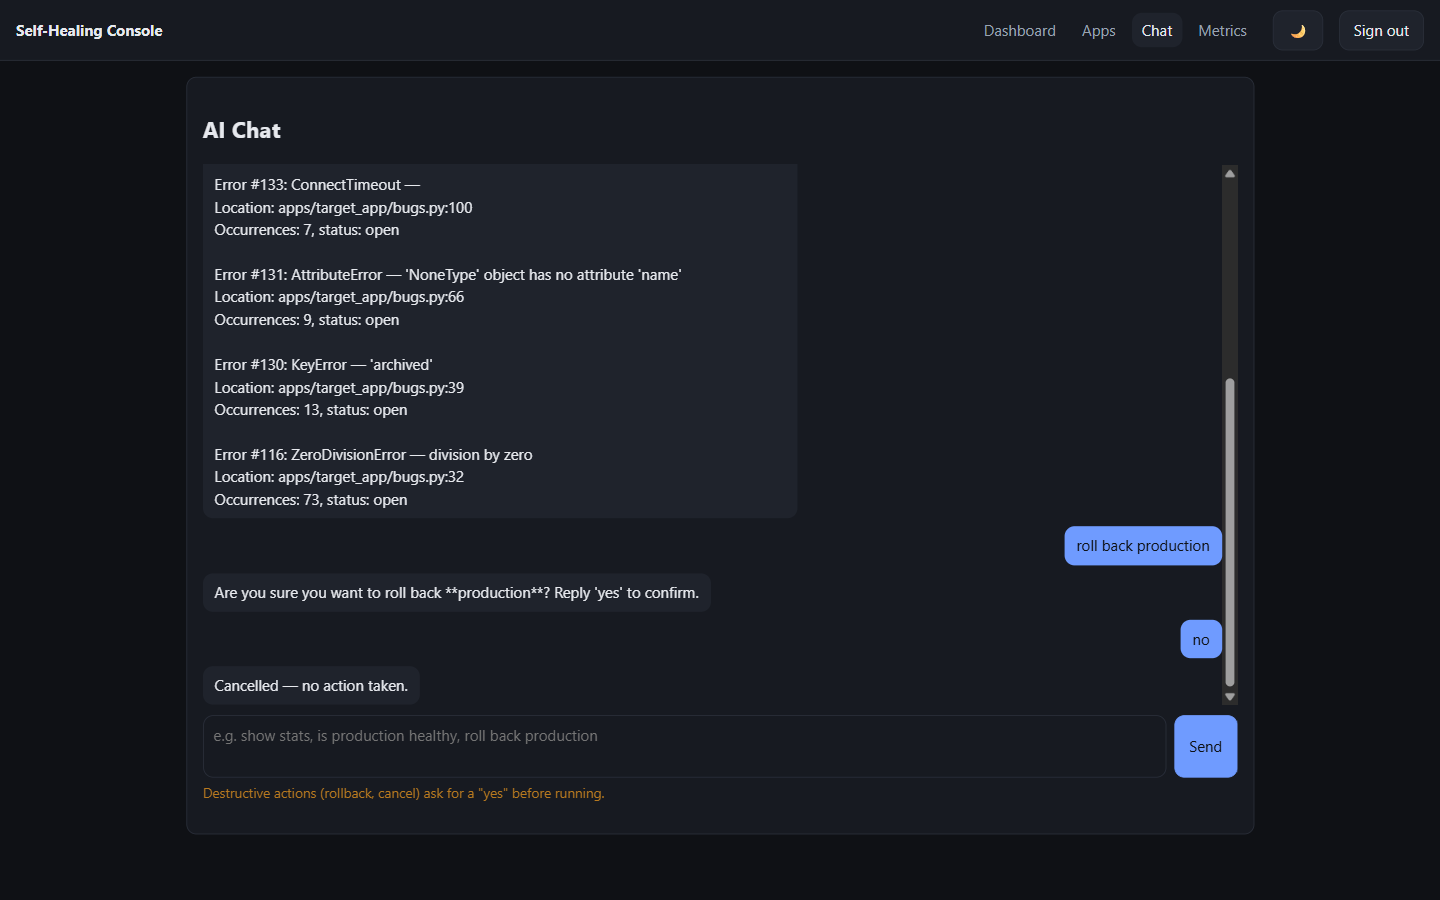
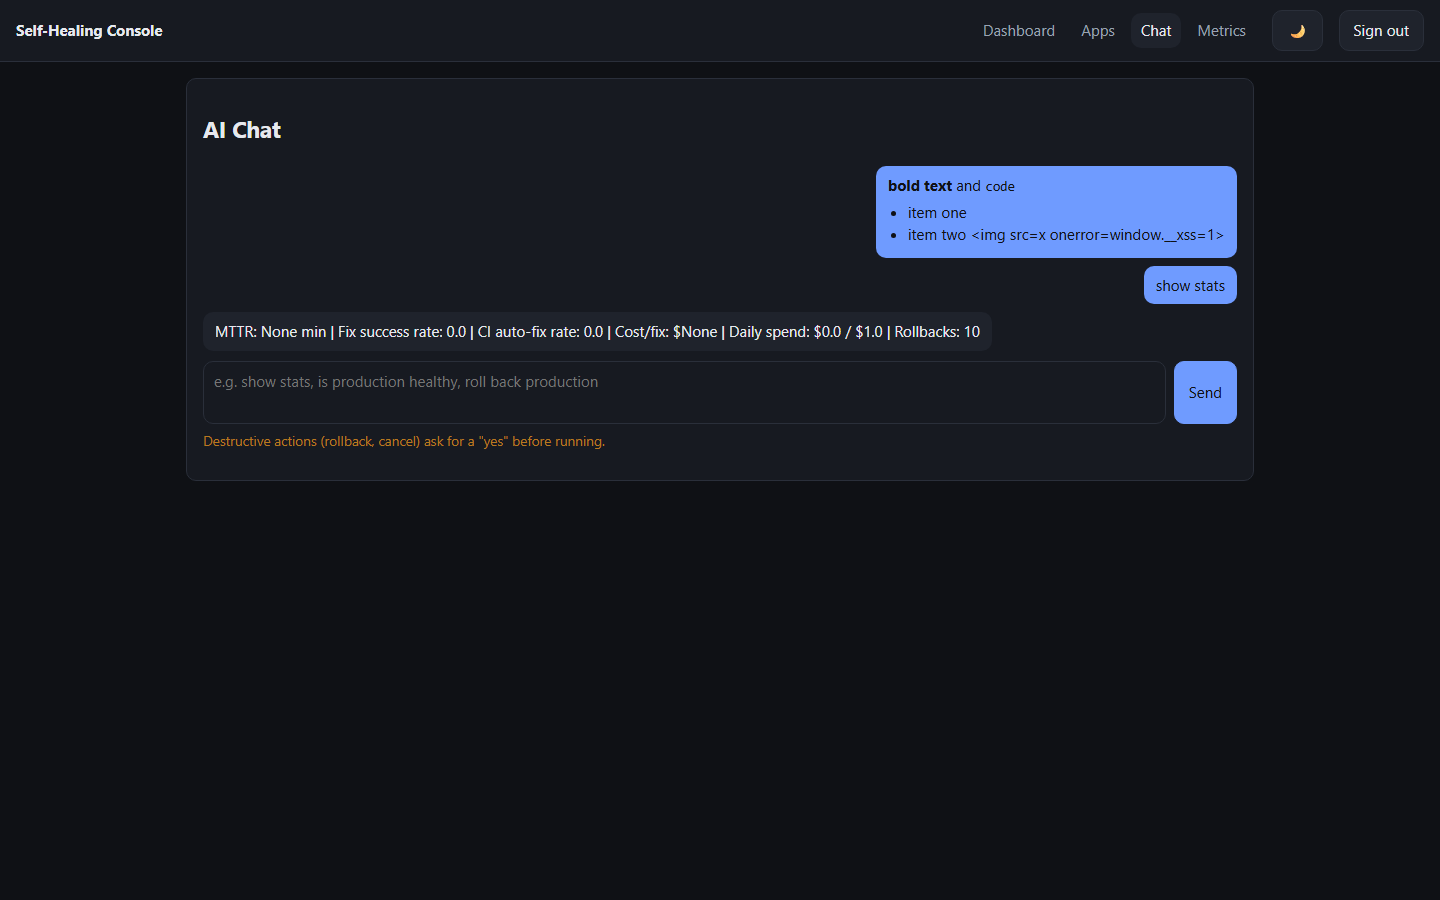
Bug-fix pass: chat markdown, MCP auto-reconnect, demo script fixes, test-row cleanup

diff --git a/web/app.js b/web/app.js
@@ -469,6 +469,49 @@ function AppDetail({ appId, socket, onBack, pushToast }) {
   `;
 }
 
+// Tiny safe markdown renderer: escapes ALL html first, then applies a few
+// patterns (code blocks, inline code, bold, italic, lists), so model/user
+// text can never inject markup.
+function escapeHtml(t) {
+  return String(t).replace(/&/g, "&amp;").replace(/</g, "&lt;").replace(/>/g, "&gt;").replace(/"/g, "&quot;").replace(/'/g, "&#39;");
+}
+function renderMarkdown(src) {
+  const blocks = [];
+  const text = escapeHtml(src).replace(/```[a-z]*\n?([\s\S]*?)```/g, (_, code) => {
+    blocks.push(`<pre><code>${code.replace(/\n$/, "")}</code></pre>`);
+    return `\u0000${blocks.length - 1}\u0000`;
+  });
+  const inline = (t) =>
+    t
+      .replace(/`([^`\n]+)`/g, "<code>$1</code>")
+      .replace(/\*\*([^*\n]+)\*\*/g, "<strong>$1</strong>")
+      .replace(/(^|[^*])\*([^*\n]+)\*/g, "$1<em>$2</em>");
+  const out = [];
+  let list = null;
+  const flush = () => {
+    if (list) {
+      out.push(`<${list.tag}>${list.items.join("")}</${list.tag}>`);
+      list = null;
+    }
+  };
+  for (const line of text.split("\n")) {
+    const m = line.match(/^\s*(?:([-*])|(\d+)\.)\s+(.*)$/);
+    if (m) {
+      const tag = m[1] ? "ul" : "ol";
+      if (!list || list.tag !== tag) {
+        flush();
+        list = { tag, items: [] };
+      }
+      list.items.push(`<li>${inline(m[3])}</li>`);
+    } else {
+      flush();
+      out.push(line.trim() === "" ? "<br/>" : `<div>${inline(line)}</div>`);
+    }
+  }
+  flush();
+  return out.join("").replace(/\u0000(\d+)\u0000/g, (_, i) => blocks[Number(i)]);
+}
+
 function Chat({ socket, pushToast }) {
   const [sessionId, setSessionId] = useState(null);
   const [messages, setMessages] = useState([]);
@@ -510,7 +553,7 @@ function Chat({ socket, pushToast }) {
       ${error && html`<div class="error-state">${error}</div>`}
       <div class="chat-log" ref=${logRef} aria-live="polite">
         ${messages.length === 0 && html`<div class="empty-state">Ask about errors, the pipeline, deployments, or say "show stats".</div>`}
-        ${messages.map((m, i) => html`<div class=${`chat-msg ${m.role}`} key=${i}>${m.content}</div>`)}
+        ${messages.map((m, i) => html`<div class=${`chat-msg ${m.role}`} key=${i} dangerouslySetInnerHTML=${{ __html: renderMarkdown(m.content) }} />`)}
       </div>
       <form class="chat-input-row" onSubmit=${send}>
         <textarea

diff --git a/web/style.css b/web/style.css
@@ -137,7 +137,7 @@ th { color: var(--text-dim); font-weight: 600; }
 .badge.warn { background: rgba(183,121,31,0.15); color: var(--warn); }
 
 .chat-log { display: flex; flex-direction: column; gap: 8px; max-height: 60vh; overflow-y: auto; }
-.chat-msg { padding: 8px 12px; border-radius: var(--radius); max-width: 80%; white-space: pre-wrap; }
+.chat-msg { padding: 8px 12px; border-radius: var(--radius); max-width: 80%; overflow-wrap: anywhere; }
 .chat-msg.user { align-self: flex-end; background: var(--accent); color: var(--accent-contrast); }
 .chat-msg.assistant { align-self: flex-start; background: var(--surface-2); }
 .chat-input-row { display: flex; gap: 8px; margin-top: 10px; }
@@ -209,3 +209,6 @@ th { color: var(--text-dim); font-weight: 600; }
   main { padding: 10px; }
   .chat-msg { max-width: 92%; }
 }
+.chat-msg pre { margin: 6px 0; padding: 8px; overflow-x: auto; background: var(--surface); border-radius: 6px; }
+.chat-msg code { font-family: ui-monospace, Consolas, monospace; font-size: 0.9em; }
+.chat-msg ul, .chat-msg ol { margin: 4px 0; padding-left: 20px; }

diff --git a/healer/mcp_client.py b/healer/mcp_client.py
@@ -12,9 +12,10 @@ uses for target_app/sentinel via `httpx.ASGITransport`.
 
 from __future__ import annotations
 
-from collections.abc import AsyncIterator
-from contextlib import asynccontextmanager
-from typing import Any
+import asyncio
+from collections.abc import AsyncIterator, Awaitable, Callable
+from contextlib import AbstractAsyncContextManager, asynccontextmanager
+from typing import Any, cast
 
 from mcp.client._memory import InMemoryTransport
 from mcp.client.session import ClientSession
@@ -33,8 +34,8 @@ def _content_text(result: Any) -> str:
 class MCPToolClient:
     """A connected `ClientSession` plus a JSON-friendly `call_tool`/list API."""
 
-    def __init__(self, session: ClientSession) -> None:
-        self._session = session
+    def __init__(self, session: ClientSession | None = None) -> None:
+        self._session = cast("ClientSession", session)  # subclasses override every call
 
     async def list_tool_schemas(self) -> list[dict[str, Any]]:
         """Anthropic-`tools`-shaped schemas: `{name, description, input_schema}`."""
@@ -76,3 +77,108 @@ async def connect_http(url: str) -> AsyncIterator[MCPToolClient]:
         async with ClientSession(read, write) as session:
             await session.initialize()
             yield MCPToolClient(session)
+
+
+class ReconnectingMCPToolClient(MCPToolClient):
+    """`MCPToolClient` that transparently re-establishes its connection.
+
+    healer-pod holds one long-lived connection to mcp-pod; if mcp-pod restarts
+    that connection is dead for good, so every chat/dashboard call would fail
+    until healer itself restarted. A dedicated background task owns the
+    connection (anyio cancel scopes must be entered and exited in the *same*
+    task, so request handlers can't be the ones to tear it down): it connects,
+    waits until a caller flags the connection dead, then reconnects with
+    exponential backoff. Callers retry on any transport-level failure, but
+    never on `MCPToolError` (a healthy server reporting a tool error).
+    """
+
+    def __init__(
+        self,
+        connect: Callable[[], AbstractAsyncContextManager[MCPToolClient]],
+        *,
+        attempts: int = 6,
+        base_delay_s: float = 0.5,
+        max_delay_s: float = 5.0,
+        call_timeout_s: float = 30.0,
+        ready_timeout_s: float = 10.0,
+    ) -> None:
+        self._connect = connect
+        self._attempts = attempts
+        self._base_delay_s = base_delay_s
+        self._max_delay_s = max_delay_s
+        self._call_timeout_s = call_timeout_s
+        self._ready_timeout_s = ready_timeout_s
+        self._inner: MCPToolClient | None = None
+        self._ready = asyncio.Event()
+        self._dead = asyncio.Event()
+        self._task: asyncio.Task[None] | None = None
+
+    async def start(self) -> None:
+        """Start the connection task and wait (briefly) for the first connect.
+
+        Never raises: if mcp-pod isn't up yet, calls retry until it is.
+        """
+        self._task = asyncio.create_task(self._run())
+        try:
+            await asyncio.wait_for(self._ready.wait(), self._ready_timeout_s)
+        except TimeoutError:
+            pass  # noqa: S110
+
+    async def aclose(self) -> None:
+        if self._task is not None:
+            self._task.cancel()
+            try:
+                await self._task
+            except BaseException:  # noqa: BLE001, S110 - shutting down; nothing useful to surface
+                pass  # noqa: S110
+            self._task = None
+
+    async def _run(self) -> None:
+        failures = 0
+        while True:
+            try:
+                async with self._connect() as client:
+                    self._inner = client
+                    self._ready.set()
+                    failures = 0
+                    await self._dead.wait()
+            except asyncio.CancelledError:
+                raise
+            except BaseException:  # noqa: BLE001, S110 - task-group errors etc.; reconnect regardless
+                pass  # noqa: S110
+            finally:
+                self._inner = None
+                self._ready.clear()
+                self._dead.clear()
+            await asyncio.sleep(min(self._base_delay_s * (2**failures), self._max_delay_s))
+            failures += 1
+
+    async def _with_retry(self, op: Callable[[MCPToolClient], Awaitable[Any]]) -> Any:
+        last: BaseException | None = None
+        for attempt in range(self._attempts):
+            try:
+                await asyncio.wait_for(self._ready.wait(), self._ready_timeout_s)
+                inner = self._inner
+                if inner is None:
+                    continue
+                try:
+                    return await asyncio.wait_for(op(inner), self._call_timeout_s)
+                except MCPToolError:
+                    raise
+                except Exception:
+                    if self._inner is inner:
+                        self._dead.set()
+                    raise
+            except MCPToolError:
+                raise
+            except Exception as exc:  # noqa: BLE001 - any transport failure means reconnect
+                last = exc
+                await asyncio.sleep(min(self._base_delay_s * (2**attempt), self._max_delay_s))
+        raise ConnectionError(f"mcp-pod unreachable after {self._attempts} attempts: {last!r}")
+
+    async def list_tool_schemas(self) -> list[dict[str, Any]]:
+        result: list[dict[str, Any]] = await self._with_retry(lambda c: c.list_tool_schemas())
+        return result
+
+    async def call_tool(self, name: str, arguments: dict[str, Any]) -> Any:
+        return await self._with_retry(lambda c: c.call_tool(name, arguments))

diff --git a/healer/app.py b/healer/app.py
@@ -44,7 +44,7 @@ from healer.auth import (
 )
 from healer.chat_agent import as_tool_list, handle_chat_message
 from healer.findings_actions import maybe_auto_fix_high_severity, request_fix_for_finding
-from healer.mcp_client import MCPToolClient, connect_http
+from healer.mcp_client import MCPToolClient, ReconnectingMCPToolClient, connect_http
 from healer.onboarding import open_onboarding_pull_request
 from healer.worker import run_worker
 from mcp_server.github_client import GitHubClientError
@@ -79,24 +79,29 @@ async def lifespan(app: FastAPI) -> AsyncIterator[None]:
     notifier.set_socket_broadcaster(_socket_broadcast)
     mcp_url = f"http://127.0.0.1:{settings.mcp_port}/mcp"
     worker_task: asyncio.Task[None] | None = None
-    async with connect_http(mcp_url) as mcp:
-        _mcp_client = mcp
-        worker_task = asyncio.create_task(run_worker())
-        logger.info("healer_pod_started", mcp_url=mcp_url)
-        try:
-            yield
-        finally:
-            if worker_task is not None:
-                worker_task.cancel()
-                try:
-                    await worker_task
-                except asyncio.CancelledError:
-                    pass
-                except Exception:
-                    logger.exception("healer_app.worker_task_crashed")
-            notifier.set_socket_broadcaster(None)
-            _mcp_client = None
-            await dispose_engine()
+    mcp = ReconnectingMCPToolClient(lambda: connect_http(mcp_url))
+    try:
+        await mcp.start()
+    except Exception:
+        logger.warning("healer_app.mcp_initial_connect_failed", mcp_url=mcp_url)
+    _mcp_client = mcp
+    worker_task = asyncio.create_task(run_worker())
+    logger.info("healer_pod_started", mcp_url=mcp_url)
+    try:
+        yield
+    finally:
+        if worker_task is not None:
+            worker_task.cancel()
+            try:
+                await worker_task
+            except asyncio.CancelledError:
+                pass
+            except Exception:
+                logger.exception("healer_app.worker_task_crashed")
+        notifier.set_socket_broadcaster(None)
+        _mcp_client = None
+        await mcp.aclose()
+        await dispose_engine()
 
 
 app = FastAPI(title="healer-pod", lifespan=lifespan)

diff --git a/tests/test_healer_mcp_reconnect.py b/tests/test_healer_mcp_reconnect.py
@@ -1,0 +1,71 @@
+"""ReconnectingMCPToolClient recovers after the server connection dies."""
+
+from __future__ import annotations
+
+from contextlib import asynccontextmanager
+from typing import Any
+
+import pytest
+
+from healer.mcp_client import MCPToolClient, MCPToolError, ReconnectingMCPToolClient
+
+
+class _FlakyClient(MCPToolClient):
+    def __init__(self, fail: Exception | None) -> None:
+        super().__init__()
+        self._fail = fail
+
+    async def call_tool(self, name: str, arguments: dict[str, Any]) -> Any:
+        if self._fail is not None:
+            raise self._fail
+        return {"ok": name}
+
+
+def _factory(connects: list[int], failing_first: int):
+    @asynccontextmanager
+    async def connect():
+        connects.append(1)
+        yield _FlakyClient(ConnectionError("dead") if len(connects) <= failing_first else None)
+
+    return connect
+
+
+async def test_reconnects_after_connection_error() -> None:
+    connects: list[int] = []
+    client = ReconnectingMCPToolClient(_factory(connects, 1), base_delay_s=0, ready_timeout_s=0.5)
+    await client.start()
+    try:
+        assert await client.call_tool("get_metrics", {}) == {"ok": "get_metrics"}
+        assert len(connects) == 2  # first connection was dead, second worked
+    finally:
+        await client.aclose()
+
+
+async def test_tool_errors_are_not_retried() -> None:
+    connects: list[int] = []
+
+    @asynccontextmanager
+    async def connect():
+        connects.append(1)
+        yield _FlakyClient(MCPToolError("bad arg"))
+
+    client = ReconnectingMCPToolClient(connect, base_delay_s=0, ready_timeout_s=0.5)
+    await client.start()
+    try:
+        with pytest.raises(MCPToolError):
+            await client.call_tool("x", {})
+        assert len(connects) == 1
+    finally:
+        await client.aclose()
+
+
+async def test_gives_up_after_attempts() -> None:
+    client = ReconnectingMCPToolClient(
+        _factory([], 99), attempts=3, base_delay_s=0, ready_timeout_s=0.5
+    )
+    await client.start()
+    try:
+        with pytest.raises(ConnectionError):
+            await client.call_tool("x", {})
+    finally:
+        await client.aclose()

diff --git a/scripts/clean_test_rows.py b/scripts/clean_test_rows.py
@@ -1,0 +1,46 @@
+"""One-off: delete test/seed rows that leaked into the dev database.
+
+Only touches `errors` rows whose exception_type is a known test-only marker
+(and heal_jobs/other rows that reference them by fingerprint). Real demo
+errors (ZeroDivisionError, KeyError, ...) are left alone. Dry-run by default;
+pass --apply to delete. Refuses to run against a *_test database.
+"""
+
+from __future__ import annotations
+
+import asyncio
+import sys
+
+from sqlalchemy import text
+
+from core.config import settings
+from core.db import session_scope
+
+TEST_TYPES = ("OpenOne", "ResolvedOne", "McpToolsErrorsTestType", "test-runner:test")
+
+
+async def main(apply: bool) -> None:
+    if settings.database_url.rstrip("/").endswith("_test"):
+        raise SystemExit("Refusing: DATABASE_URL points at the test database.")
+    async with session_scope() as s:
+        rows = (
+            await s.execute(
+                text(
+                    "SELECT id, exception_type, fingerprint FROM errors "
+                    "WHERE exception_type = ANY(:t) OR exception_type LIKE 'TestType%'"
+                ),
+                {"t": list(TEST_TYPES)},
+            )
+        ).all()
+        print(f"{len(rows)} test error rows: {sorted({r[1] for r in rows})}")
+        if not apply or not rows:
+            return
+        fps = [r[2] for r in rows]
+        ids = [r[0] for r in rows]
+        await s.execute(text("DELETE FROM heal_jobs WHERE fingerprint = ANY(:f)"), {"f": fps})
+        await s.execute(text("DELETE FROM errors WHERE id = ANY(:i)"), {"i": ids})
+        print("deleted")
+
+
+if __name__ == "__main__":
+    asyncio.run(main("--apply" in sys.argv))
